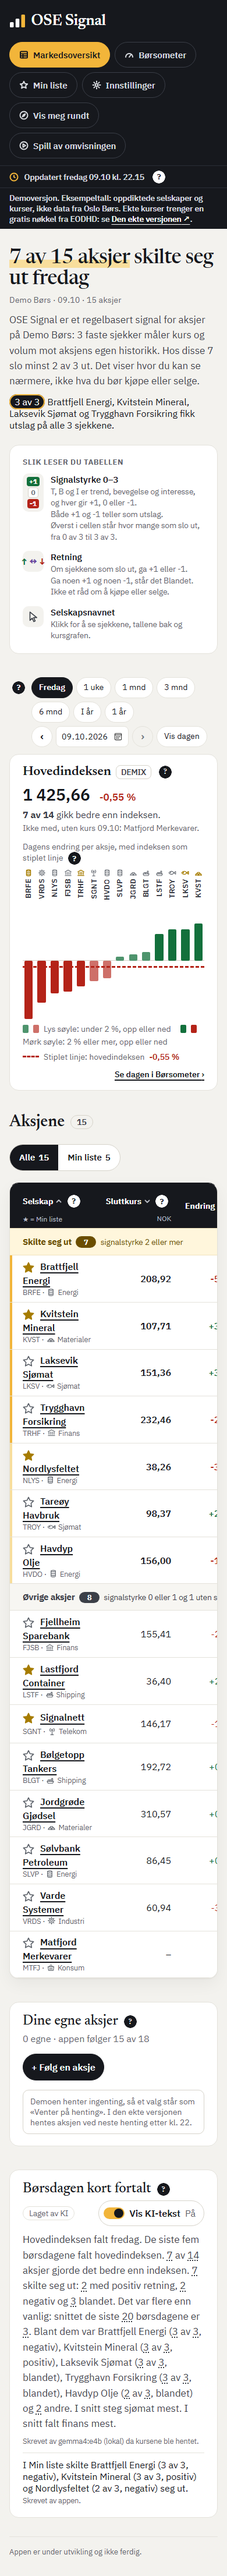
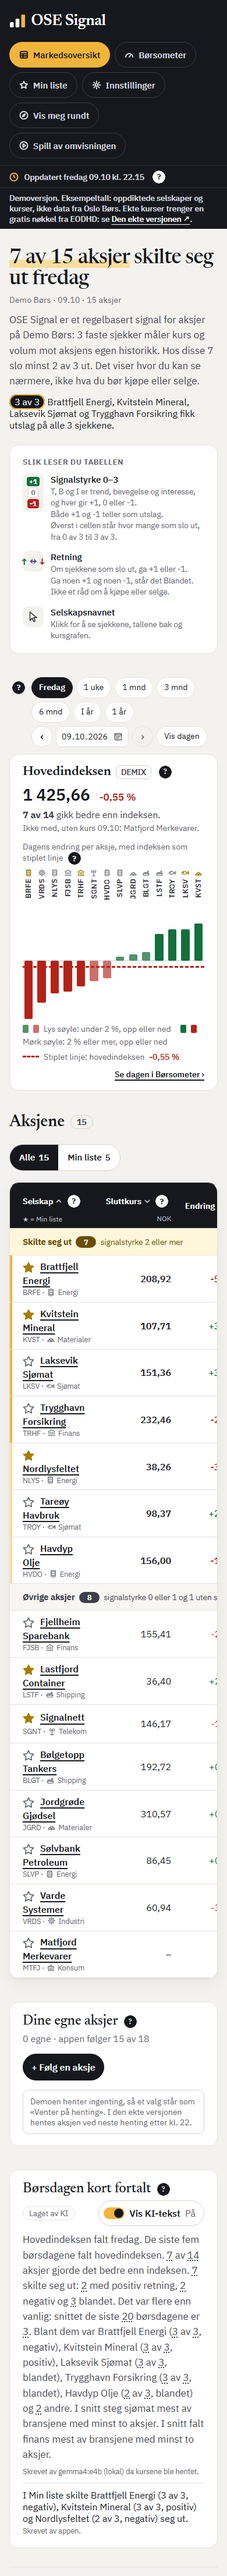
10.11: bildene og avtrykkene etter flettingen av main med 3.7
Alle bildene er tatt på nytt, og bare oversikten ved 390 px er ny.
notatene-brfe-390-demo.png er som på main.

Changed region(s): [[0.0923, 0.9358, 0.8615, 0.9982]]

diff --git a/tests/test_docker.py b/tests/test_docker.py
@@ -1347,7 +1347,9 @@ HOEYDE_PAA_BILDET = 1864
 # demo_ki_dagen.json fra Gemma). Avtrykkene er regnet ut paa nytt, fordi hjelpetekster.py er med bak alle
 # bildene, og alle bildene er tatt paa nytt. Bare oversikten ved 390 px er ny, med samme hoeyde; de andre er
 # byte for byte de samme (gjennomgangen, BH7).
[1 lines of base64/hex data omitted]
+# Flettingen av main (3.7) inn i 10.11 13.11: avtrykkene er regnet ut paa nytt, og bildene er tatt
+# paa nytt. Bare oversikten ved 390 px er ny (teksten om dagen i demoen).
[1 lines of base64/hex data omitted]
 SLIK_TAS_BILDET = (
     "Oversikten er endret, så skjermbildet viser noe annet enn demoen. Ta "
     f"{SKJERMBILDET} på nytt etter «Bildet» i spesifikasjonen 3.3b: demobasen i en "
@@ -1802,7 +1804,9 @@ HOEYDE_PAA_AKSJESIDEN = 2258
 # Story 8.26, tilleggene 5–20: avtrykkene er regnet ut paa nytt, og bildene er tatt paa nytt.
 # Flettingen av main (8.26) inn i 3.7 13.11: avtrykkene er regnet ut paa nytt. Bildene ble tatt
 # paa nytt og er byte for byte de samme.
[1 lines of base64/hex data omitted]
+# Flettingen av main (3.7) inn i 10.11 13.11: avtrykkene er regnet ut paa nytt, og bildene er tatt
+# paa nytt. Bare oversikten ved 390 px er ny (teksten om dagen i demoen).
[1 lines of base64/hex data omitted]
 SLIK_TAS_AKSJESIDEN = (
     "Aksjesiden er endret, så bildet av den viser noe annet enn demoen. Ta "
     f"{AKSJESIDEBILDET} på nytt med fremgangsmåten i spesifikasjonen 3.3b, mot /aksje/BRFE: "
@@ -2053,21 +2057,23 @@ DE_NYE_BILDENE = {
 # Story 10.11: avtrykkene er regnet ut paa nytt (hjelpetekster.py og demo_ki_dagen.json). Alle bildene er
 # tatt paa nytt, og bare oversikten ved 390 px er ny. notatene-brfe-390-demo.png er som paa main, fordi
 # den klippes ut med en fremgangsmaate dette vinduet ikke har, som i 10.10; den viser ikke teksten om dagen.
+# Flettingen av main (3.7) inn i 10.11 13.11: avtrykkene er regnet ut paa nytt, og bildene er tatt
+# paa nytt. Bare oversikten ved 390 px er ny (teksten om dagen i demoen).
 AVTRYKK_BAK_DE_NYE_BILDENE = {
[26 lines of base64/hex data omitted]
 }
 SLIK_TAS_DE_NYE_BILDENE = (
     "Siden bak {bildet} er endret, så bildet viser noe annet enn demoen. Ta det på nytt som "
